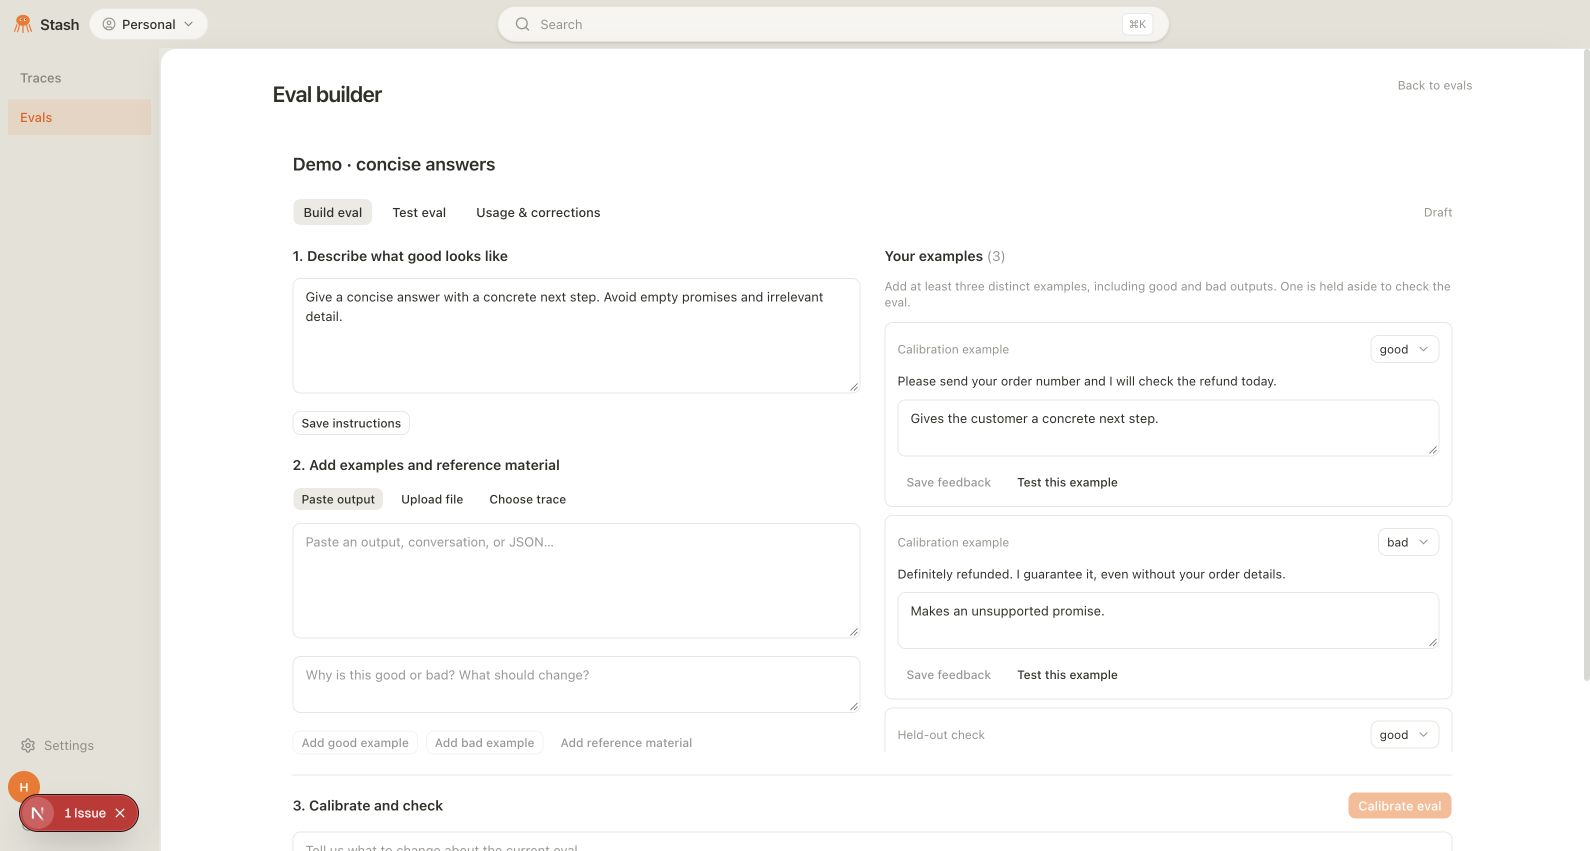
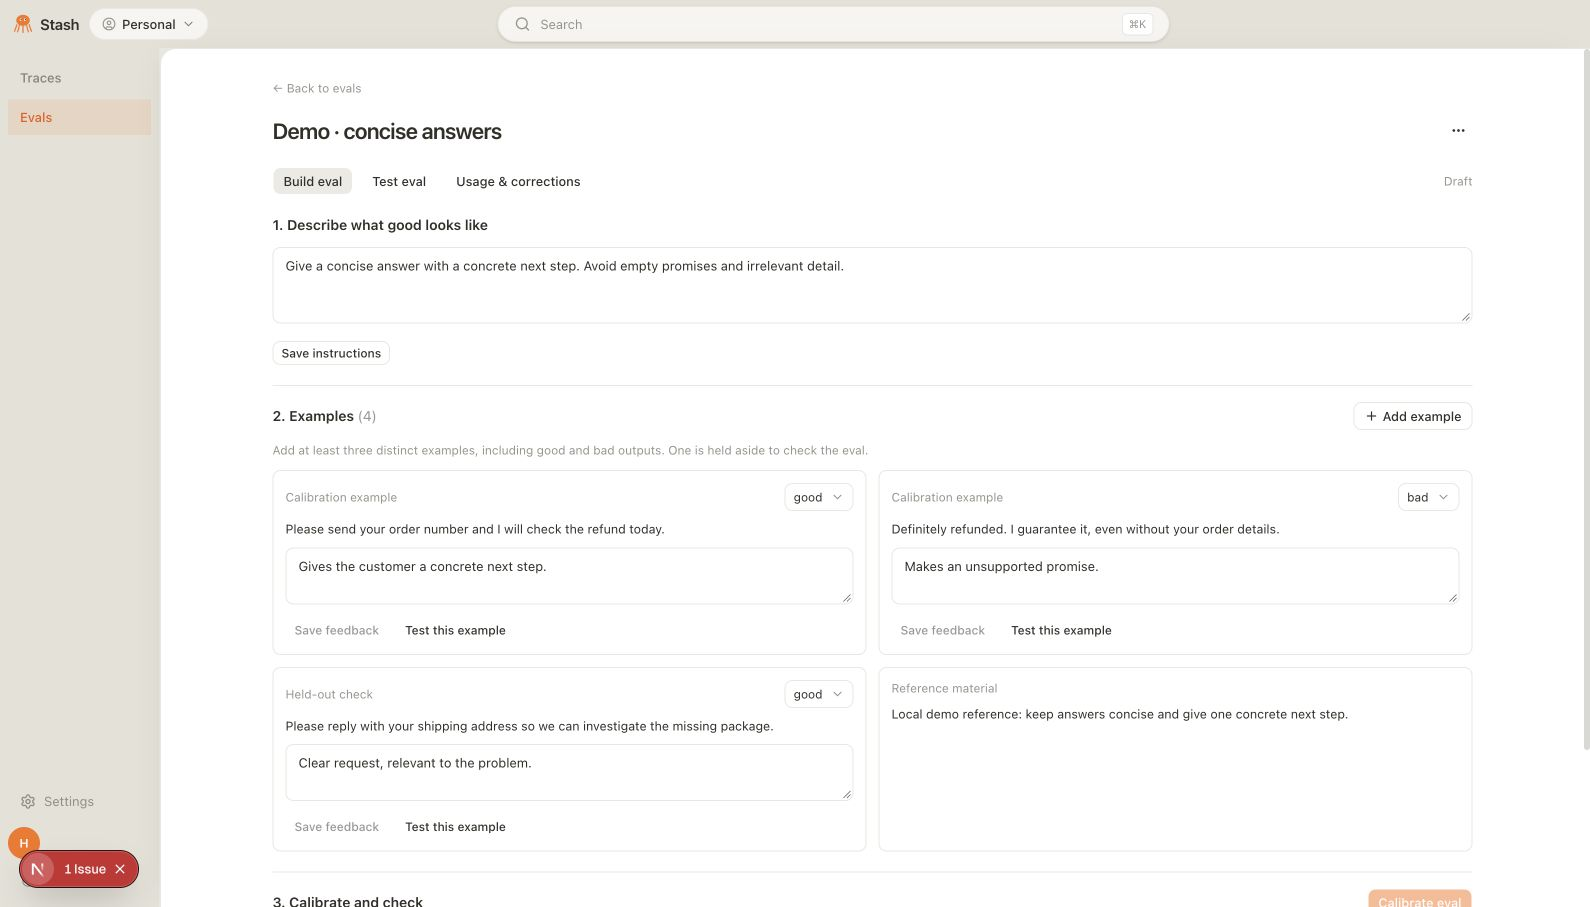
Unify eval examples into one collection with an add dialog

diff --git a/frontend/src/components/evals/EvalWorkspace.tsx b/frontend/src/components/evals/EvalWorkspace.tsx
@@ -1,7 +1,7 @@
 "use client";
 
 import { useCallback, useEffect, useRef, useState } from "react";
-import { Download, MoreHorizontal, Plug } from "lucide-react";
+import { Download, MoreHorizontal, Plug, Plus } from "lucide-react";
 import { Dialog, DialogContent, DialogHeader, DialogTitle } from "@/components/ui/dialog";
 import { DropdownMenu, DropdownMenuContent, DropdownMenuItem, DropdownMenuTrigger } from "@/components/ui/dropdown-menu";
 import { Button } from "@/components/ui/button";
@@ -37,6 +37,8 @@ export default function EvalWorkspace({ id }: { id: string }) {
   const [inputRevision, setInputRevision] = useState(0);
   const [confirm, setConfirm] = useState(false);
   const [connectOpen, setConnectOpen] = useState(false);
+  const [addOpen, setAddOpen] = useState(false);
+  const [newLabel, setNewLabel] = useState("");
   const load = useCallback(async () => {
     const [next, rows] = await Promise.all([imGet(id), imExamples(id)]);
     setDetail(next); setExamples(rows);
@@ -58,7 +60,7 @@ export default function EvalWorkspace({ id }: { id: string }) {
     await action("Saving example…", async () => {
       if (traceId && label) await evalAddTrace(id, traceId, label, note);
       else await evalAddExamples(id, [{ item, label, note: label === null ? "Reference material" : note }]);
-      setItem(null); setTraceId(null); setNote(""); setInputRevision((value) => value + 1);
+      setItem(null); setTraceId(null); setNote(""); setInputRevision((value) => value + 1); setAddOpen(false);
     });
   }
   async function calibrate() {
@@ -105,28 +107,25 @@ export default function EvalWorkspace({ id }: { id: string }) {
       <div className="flex gap-2" role="group" aria-label="Eval workspace">{["build", "test", "usage"].map((tab) => <Button key={tab} size="sm" variant={view === tab ? "secondary" : "ghost"} aria-pressed={view === tab} disabled={!!busy} onClick={() => { if (tab === view) return; setView(tab); setItem(null); setTraceId(null); if (tab === "test") setTestItem(null); }}>{tab === "build" ? "Build eval" : tab === "test" ? "Test eval" : "Usage & corrections"}</Button>)}</div>
       <span className="text-xs text-muted-foreground">{detail.active ? `Active v${detail.active.number}` : "Draft"}{detail.draft && detail.active ? ` · updating v${detail.draft.number}` : ""}</span>
     </div>
-    {error && <p role="alert" className="text-xs text-destructive">{error}</p>}
+    {error && !addOpen && <p role="alert" className="text-xs text-destructive">{error}</p>}
     {busy && <p role="status" className="text-xs text-muted-foreground">{busy}</p>}
     {view === "build" ? <>
-      <div className="grid gap-6 lg:grid-cols-2">
-        <section className="space-y-3">
-          <h2 className="text-sm font-semibold">1. Describe what good looks like</h2>
-          <textarea aria-label="Eval instructions" rows={5} maxLength={6000} className={inputClass} value={description} disabled={!!busy} onChange={(e) => setDescription(e.target.value)} />
-          <Button size="xs" variant="outline" disabled={!!busy} onClick={() => void action("Saving instructions…", () => imEditDraft(id, { description }))}>Save instructions</Button>
-          <h2 className="pt-2 text-sm font-semibold">2. Add examples and reference material</h2>
-          <EvalInput key={inputRevision} onChange={setItem} onTrace={setTraceId} disabled={!!busy} />
-          <textarea aria-label="Example feedback" rows={2} maxLength={2000} className={inputClass} placeholder="Why is this good or bad? What should change?" value={note} disabled={!!busy} onChange={(e) => setNote(e.target.value)} />
-          <div className="flex flex-wrap gap-2">{labels.map((label) => <Button key={label} size="xs" variant="outline" disabled={!!busy || item === null} onClick={() => void add(label)}>Add {label} example</Button>)}<Button size="xs" variant="ghost" disabled={!!busy || item === null} onClick={() => void add(null)}>Add reference material</Button></div>
-        </section>
-        <section className="space-y-3">
-          <h2 className="text-sm font-semibold">Your examples <span className="font-normal text-muted-foreground">({examples.length})</span></h2>
-          <p className="text-xs text-muted-foreground">Add at least three distinct examples, including good and bad outputs. One is held aside to check the eval.</p>
-          <div className="max-h-[430px] space-y-2 overflow-y-auto">{examples.map((example) => <article key={example.id} className="rounded-md border border-border p-3">
+      <section className="space-y-3">
+        <h2 className="text-sm font-semibold">1. Describe what good looks like</h2>
+        <textarea aria-label="Eval instructions" rows={3} maxLength={6000} className={inputClass} value={description} disabled={!!busy} onChange={(e) => setDescription(e.target.value)} />
+        <Button size="xs" variant="outline" disabled={!!busy} onClick={() => void action("Saving instructions…", () => imEditDraft(id, { description }))}>Save instructions</Button>
+      </section>
+      <section aria-labelledby="eval-examples-heading" className="space-y-3 border-t border-border pt-4">
+        <div className="flex items-center justify-between gap-3">
+          <h2 id="eval-examples-heading" className="text-sm font-semibold">2. Examples <span className="font-normal text-muted-foreground">({examples.length})</span></h2>
+          <Button size="sm" variant="outline" disabled={!!busy} onClick={() => { setNewLabel(labels[0] ?? ""); setError(""); setAddOpen(true); }}><Plus />Add example</Button>
+        </div>
+        <p className="text-xs text-muted-foreground">Add at least three distinct examples, including good and bad outputs. One is held aside to check the eval.</p>
+          <div className="grid max-h-[430px] gap-3 overflow-y-auto lg:grid-cols-2">{examples.map((example) => <article key={example.id} className="rounded-md border border-border p-3">
             <div className="mb-2 flex items-center justify-between gap-3"><span className="text-xs text-muted-foreground">{example.label === null ? "Reference material" : example.split === "eval" ? "Held-out check" : "Calibration example"}</span>{example.label !== null && <Select aria-label={`Label for example ${example.id}`} value={example.label} onChange={(label) => void action("Saving correction…", () => imEditExample(id, example.id, { label, needs_review: false }))} disabled={!!busy} options={labels.map((label) => ({ value: label, label }))} className="h-7 px-2 text-xs" />}</div>
             <ItemView item={example.item} />{example.label !== null && <div className="mt-2 space-y-2"><textarea aria-label={`Feedback for example ${example.id}`} maxLength={2000} rows={2} className={inputClass} disabled={!!busy} value={exampleFeedback[example.id] ?? example.note} onChange={(e) => setExampleFeedback({ ...exampleFeedback, [example.id]: e.target.value })} placeholder="Explain what makes this good or bad…" /><div className="flex gap-2"><Button size="xs" variant="ghost" disabled={!!busy || exampleFeedback[example.id] === undefined || exampleFeedback[example.id] === example.note} onClick={() => void action("Saving feedback…", () => imEditExample(id, example.id, { note: exampleFeedback[example.id] }))}>Save feedback</Button><Button size="xs" variant="ghost" disabled={!!busy} onClick={() => { setTestItem(example.item); setView("test"); }}>Test this example</Button></div></div>}
-          </article>)}{!examples.length && <p className="py-8 text-xs text-muted-foreground">Your examples will appear here.</p>}</div>
-        </section>
-      </div>
+          </article>)}{!examples.length && <p className="col-span-full py-8 text-xs text-muted-foreground">No examples yet. Add an output, file, trace, or reference material to get started.</p>}</div>
+      </section>
       <section className="space-y-3 border-t border-border pt-4">
         <div className="flex flex-wrap items-center justify-between gap-3"><h2 className="text-sm font-semibold">3. Calibrate and check</h2><Button size="sm" disabled={!!busy || !detail.judge.configured} onClick={() => void calibrate()}>{metrics ? "Update eval" : "Calibrate eval"}</Button></div>
         <textarea aria-label="Eval improvement feedback" rows={2} maxLength={2000} className={inputClass} placeholder="Tell us what to change about the current eval…" value={guidance} disabled={!!busy} onChange={(e) => setGuidance(e.target.value)} />
@@ -143,6 +142,16 @@ export default function EvalWorkspace({ id }: { id: string }) {
       </section>
     </> : view === "test" ? <EvalTest id={id} detail={detail} initialItem={testItem} /> : <EvalUsage id={id} labels={labels} onCorrected={() => { void load(); }} />}
     <ConfirmDialog open={confirm} onOpenChange={setConfirm} title="Use this eval with limited validation?" description={<><p>Review the held-out scorecard before using this eval.</p>{detail.draft?.gate?.checks.filter((c) => !c.passed).map((c) => <p key={c.name}>{c.detail}</p>)}<p>Activating makes this version available to API callers.</p></>} confirmLabel="Activate anyway" onConfirm={async () => { let failed = false; await action("Activating eval…", async () => { try { await imPromote(id, true); } catch (e) { failed = true; throw e; } }); return !failed; }} />
+    <Dialog open={addOpen} onOpenChange={(open) => { setAddOpen(open); if (!open) { setItem(null); setTraceId(null); setNote(""); setInputRevision((value) => value + 1); } }}>
+      <DialogContent className="max-h-[85vh] overflow-y-auto sm:max-w-2xl" aria-describedby={undefined}>
+        <DialogHeader><DialogTitle>Add example</DialogTitle></DialogHeader>
+        <EvalInput key={inputRevision} onChange={setItem} onTrace={setTraceId} disabled={!!busy} />
+        <label className="space-y-1.5"><span className="block text-xs font-medium">How should the eval use this?</span><Select aria-label="Example label" value={newLabel} onChange={setNewLabel} disabled={!!busy} options={[...labels.map((label) => ({ value: label, label })), { value: "", label: "Reference material" }]} className="h-8 px-3 text-xs" /></label>
+        {newLabel && <textarea aria-label="Example feedback" rows={2} maxLength={2000} className={inputClass} placeholder="Why is this good or bad? What should change?" value={note} disabled={!!busy} onChange={(e) => setNote(e.target.value)} />}
+        {error && <p role="alert" className="text-xs text-destructive">{error}</p>}
+        <div className="flex justify-end gap-2"><Button variant="ghost" size="sm" disabled={!!busy} onClick={() => { setAddOpen(false); setItem(null); setTraceId(null); setNote(""); setInputRevision((value) => value + 1); }}>Cancel</Button><Button size="sm" disabled={!!busy || item === null} onClick={() => void add(newLabel || null)}>{busy ? "Saving…" : "Add example"}</Button></div>
+      </DialogContent>
+    </Dialog>
     <Dialog open={connectOpen} onOpenChange={setConnectOpen}>
       <DialogContent className="max-h-[85vh] overflow-y-auto sm:max-w-2xl" aria-describedby={undefined}>
         <DialogHeader><DialogTitle>Connect {detail.model.name}</DialogTitle></DialogHeader>

diff --git a/frontend/src/components/evals/EvalWorkspace.test.tsx b/frontend/src/components/evals/EvalWorkspace.test.tsx
@@ -1,4 +1,4 @@
-import { fireEvent, render, screen, waitFor } from "@testing-library/react";
+import { fireEvent, render, screen, waitFor, within } from "@testing-library/react";
 import { beforeEach, expect, it, vi } from "vitest";
 import EvalWorkspace from "./EvalWorkspace";
 import CreateEval from "./CreateEval";
@@ -104,4 +104,35 @@ it("downloads saved definitions, fitted heads, frozen seeds, and examples for th
     const exported = await new Promise<string>((resolve) => { const reader = new FileReader(); reader.onload = () => resolve(String(reader.result)); reader.readAsText(create.mock.calls[0][0]); });
     expect(JSON.parse(exported)).toMatchObject({ format: "stash-eval", format_version: 1, model: detail.model, active, examples });
   } finally { click.mockRestore(); URL.createObjectURL = oldCreate; URL.revokeObjectURL = oldRevoke; }
+});
+
+
+it("adds a labeled example into the single Examples collection", async () => {
+  render(<EvalWorkspace id="eval" />);
+  fireEvent.click(await screen.findByRole("button", { name: "Add example" }));
+  const dialog = await screen.findByRole("dialog", { name: "Add example" });
+  const form = within(dialog);
+  expect(form.getByRole("button", { name: "Add example" })).toBeDisabled();
+  fireEvent.change(form.getByRole("textbox", { name: "Example output" }), { target: { value: "A concrete next step" } });
+  fireEvent.change(form.getByRole("textbox", { name: "Example feedback" }), { target: { value: "Useful and concise" } });
+  api.imExamples.mockResolvedValue([{ id: "new", item: "A concrete next step", label: "good", note: "Useful and concise", split: "train" }]);
+  fireEvent.click(form.getByRole("button", { name: "Add example" }));
+  await waitFor(() => expect(api.evalAddExamples).toHaveBeenCalledWith("eval", [{ item: "A concrete next step", label: "good", note: "Useful and concise" }]));
+  await waitFor(() => expect(screen.queryByRole("dialog")).not.toBeInTheDocument());
+  expect(within(screen.getByRole("region", { name: "2. Examples (1)" })).getByText("A concrete next step")).toBeVisible();
+});
+
+it("keeps failed submissions editable and clears canceled input", async () => {
+  api.evalAddExamples.mockRejectedValueOnce(new Error("Could not save"));
+  render(<EvalWorkspace id="eval" />);
+  fireEvent.click(await screen.findByRole("button", { name: "Add example" }));
+  const form = within(await screen.findByRole("dialog", { name: "Add example" }));
+  fireEvent.change(form.getByRole("textbox", { name: "Example output" }), { target: { value: "Keep this draft" } });
+  fireEvent.click(form.getByRole("button", { name: "Add example" }));
+  expect(await form.findByRole("alert")).toHaveTextContent("Could not save");
+  expect(form.getByRole("textbox", { name: "Example output" })).toHaveValue("Keep this draft");
+  fireEvent.click(form.getByRole("button", { name: "Cancel" }));
+  fireEvent.click(screen.getByRole("button", { name: "Add example" }));
+  expect(within(await screen.findByRole("dialog")).getByRole("button", { name: "Add example" })).toBeDisabled();
+  expect(screen.getByRole("textbox", { name: "Example output" })).toHaveValue("");
 });

diff --git a/docs/eval-builder-product.md b/docs/eval-builder-product.md
@@ -7,7 +7,7 @@ The main product has two areas: Traces for observability and Evals for creating,
 ## Create and update
 
 1. Name the eval and describe what good looks like. Accept unstructured interview notes and explanations.
-2. Add labeled good and bad outputs by pasting text or JSON, uploading files, or choosing recorded traces. Add reference material without labeling it. Trace annotations are imported separately as feedback, never included in the prediction input.
+2. Use the single Examples collection and its Add example dialog to submit labeled good and bad outputs by pasting text or JSON, uploading files, or choosing recorded traces. The saved example appears in that same collection, where labels and feedback remain editable. Add reference material without labeling it. Trace annotations are imported separately as feedback, never included in the prediction input.
 3. Automatically reserve a distinct labeled example for a held-out check while retaining at least two labels in calibration data. Show its input, human label, predicted label, and probability of the human label. Very small checks are presented as limited validation, not proof of generalization.
 4. Generate criteria with an LLM using only calibration examples and reference material. Show calibration examples as few-shot references to the judge. Fit a small classifier and calibrate probabilities; this does not fine-tune an LLM.
 5. User corrections and additional guidance can update the draft eval. Active versions continue serving while a draft is edited. Activating an insufficiently validated or regressed draft requires an explicit override after seeing the failed checks.
